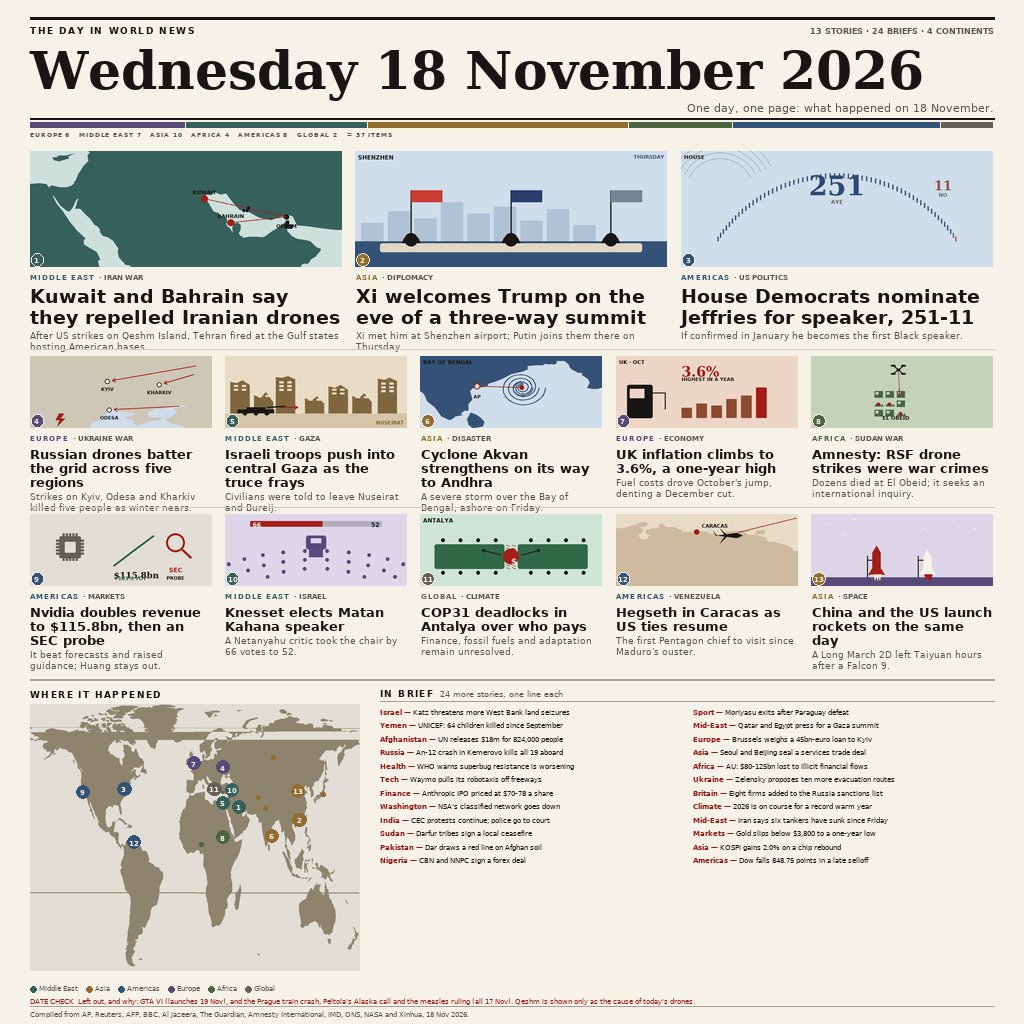
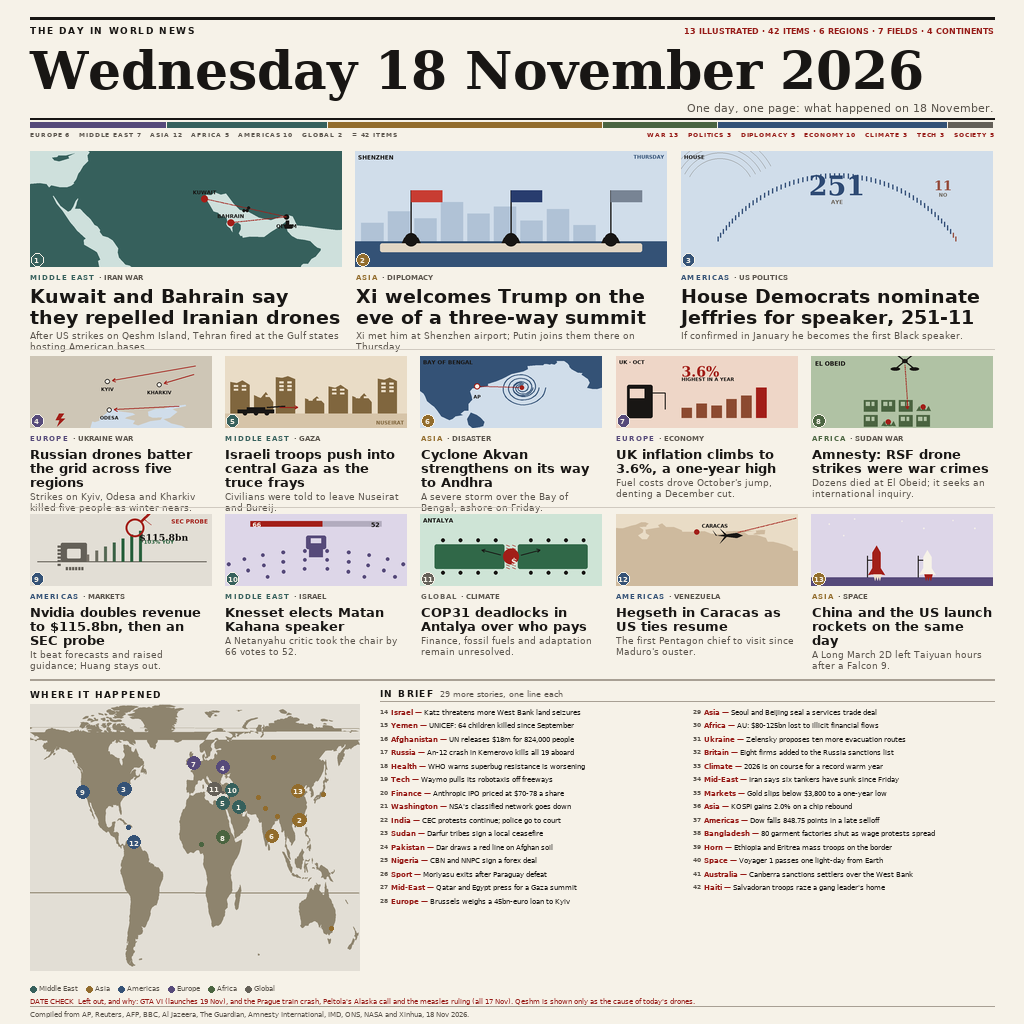
Carry one numbering spine through 42 items, and index them twice
The briefs now continue the cards' numbers, 14 to 42, so the locator's
dots and the page's items are one set rather than two lists. Five more
verified stories of the day join them: Bangladesh's garment strike, the
Ethiopian-Eritrean troop build-up, Voyager 1 passing a light-day, the
Australian settler sanctions and the raid in Haiti.

The masthead indexes the same 42 items twice, by region and by field, and
both totals are derived from the content, so neither can drift. Sudan's
plate is now a close view of El Obeid with the caption clear of the roofs,
and Nvidia's is one mechanism: a chip whose pins climb into the revenue
bars, with the regulator's lens on the peak.

diff --git a/tools/cards.py b/tools/cards.py
@@ -231,76 +231,94 @@ def inflation(w, h):
 
 # 8 ------------------------------------------------ Sudan: drones on a city --
 def sudan(w, h):
+    """A drone over El Obeid: the town in close, one strike already landed."""
     im, d = new_plate(w, h, "sage")
-    win = (26.0, 35.0, 9.0, 18.0)
-    world_map(im, d, (0, 0, w, h), "sage", win=win, min_area=1.0,
-              fill=(196, 210, 186))
+    # a tight window on North Kordofan, so the land fills the plate
+    win = (27.6, 33.4, 11.2, 15.6)
+    world_map(im, d, (0, 0, w, h), "sage", win=win, min_area=0.4,
+              fill=(176, 194, 164))
     ex, ey = geo.project_win(30.2, 13.2, (0, 0, w, h), win)
-    bw = max(6.0, w * 0.045)
-    # the town, one roof missing where a strike landed
-    hit = {(0, 1), (1, 1), (2, 2)}
-    for i in range(9):
-        c, r = i % 3, i // 3
-        bx = ex - bw * 2.6 + c * bw * 1.35
-        by = ey - bw * 0.4 + r * bw * 1.15
-        if (c, r) in hit:
-            continue
-        rect(d, bx, by, bw, bw * 0.78, fill=DEEP["sage"])
-        rect(d, bx + 1, by + 1, bw * 0.34, bw * 0.3, fill=(196, 210, 186))
-    # rubble and fire where the roofs were
-    for c, r in hit:
-        bx = ex - bw * 2.6 + c * bw * 1.35
-        by = ey - bw * 0.4 + r * bw * 1.15
-        for k in range(4):
-            poly(d, [(bx + k * bw * 0.26, by + bw * 0.72),
-                     (bx + k * bw * 0.26 + bw * 0.18, by + bw * 0.40),
-                     (bx + k * bw * 0.26 + bw * 0.30, by + bw * 0.74)],
-                 fill=DEEP["sage"])
-        ellipse(d, bx + bw * 0.45, by + bw * 0.44, max(1.6, w * 0.009), fill=RED)
-    # a quadcopter: four arms in an X, rotor discs, a body
-    dx, dy = ex + bw * 0.3, ey - bw * 3.0
-    aw = max(4.0, w * 0.028)
+    bw = max(9.0, w * 0.075)
+    # the town, a dense block of roofs, three of them knocked out
+    hit = {(1, 1), (2, 2), (3, 0)}
+    for r in range(3):
+        for c in range(4):
+            bx = ex - bw * 2.1 + c * bw * 1.28
+            by = ey + bw * 0.35 + r * bw * 1.10
+            if (c, r) in hit:
+                for k in range(3):
+                    poly(d, [(bx + k * bw * 0.34, by + bw * 0.80),
+                             (bx + k * bw * 0.34 + bw * 0.22, by + bw * 0.44),
+                             (bx + k * bw * 0.34 + bw * 0.38, by + bw * 0.82)],
+                         fill=DEEP["sage"])
+                ellipse(d, bx + bw * 0.5, by + bw * 0.5, max(2.4, w * 0.014),
+                        fill=RED)
+                continue
+            rect(d, bx, by, bw, bw * 0.84, fill=DEEP["sage"])
+            rect(d, bx + bw * 0.14, by + bw * 0.14, bw * 0.30, bw * 0.28,
+                 fill=(176, 194, 164))
+            rect(d, bx + bw * 0.56, by + bw * 0.14, bw * 0.20, bw * 0.28,
+                 fill=(176, 194, 164))
+    # the drone overhead, large enough to read at thumbnail size
+    dx, dy = ex + bw * 0.9, ey - bw * 2.5
+    aw = max(7.0, w * 0.052)
     for ax, ay in ((-1, -1), (1, -1), (-1, 1), (1, 1)):
-        line(d, [(dx, dy), (dx + ax * aw, dy + ay * aw * 0.8)], INK, 1.0)
-        ellipse(d, dx + ax * aw, dy + ay * aw * 0.8, aw * 0.52, aw * 0.16,
+        line(d, [(dx, dy), (dx + ax * aw, dy + ay * aw * 0.82)], INK, 1.4)
+        ellipse(d, dx + ax * aw, dy + ay * aw * 0.82, aw * 0.50, aw * 0.17,
                 fill=INK)
-    ellipse(d, dx, dy, aw * 0.34, aw * 0.24, fill=INK)
-    # its descent vector, arrowhead landing on the struck block
-    tx, ty = ex + bw * 0.45, ey + bw * 0.34
-    line(d, [(dx, dy + aw * 0.3), (tx, ty - 4)], RED, 0.9, dash=(2.4, 2.2))
-    arrow(d, (tx - 0.5, ty - 8), (tx, ty - 1.5), RED, 0.9, 2.6)
-    label(d, (ex, ey + bw * 2.5), "EL OBEID", 5.4, INK, w, h, "sansb", "ma")
+    ellipse(d, dx, dy, aw * 0.30, aw * 0.22, fill=INK)
+    # its descent, onto the block it struck
+    tx, ty = ex + bw * 1.1, ey + bw * 1.1
+    line(d, [(dx, dy + aw * 0.4), (tx, ty - 5)], RED, 1.1, dash=(3.0, 2.6))
+    arrow(d, (tx - 0.6, ty - 10), (tx, ty - 1.5), RED, 1.1, 3.2)
+    # the caption in the corner the town leaves free, like every other plate
+    label(d, (4, 4), "EL OBEID", 6.0, INK, w, h, "sansb", "la")
     return done(im, w, h)
 
 
 # 9 ------------------------------------------------- Nvidia: a doubling, then --
 def nvidia(w, h):
+    """One chip whose right-hand pins become the revenue bars, on one ground."""
     im, d = new_plate(w, h, "stone")
-    # chip die with pins
-    cx, cy = w * 0.22, h * 0.46
-    s_ = min(w, h) * 0.15
-    for i in range(5):
-        off = -s_ * 0.6 + i * s_ * 0.3
+    cx, cy = w * 0.24, h * 0.58
+    s_ = min(w, h) * 0.18
+    base = cy + s_ * 0.46
+    # the ground line: chip, pins and bars all stand on it
+    line(d, [(w * 0.04, base), (w * 0.97, base)], DEEP["stone"], 1.2)
+    for i in range(6):
+        off = -s_ * 0.7 + i * s_ * 0.28
         rect(d, cx - s_ - 3, cy + off - 1, 3, 2, fill=DEEP["stone"])
-        rect(d, cx + s_, cy + off - 1, 3, 2, fill=DEEP["stone"])
-        rect(d, cx + off - 1, cy - s_ - 3, 2, 3, fill=DEEP["stone"])
-        rect(d, cx + off - 1, cy + s_, 2, 3, fill=DEEP["stone"])
-    rect(d, cx - s_, cy - s_, s_ * 2, s_ * 2, fill=DEEP["stone"], r=1.5)
-    rect(d, cx - s_ * 0.5, cy - s_ * 0.5, s_, s_, fill=PLATE["stone"], r=1)
-    # the doubling
-    pts = [(w * 0.46 + i / 4.0 * w * 0.22,
-            h * 0.72 - i / 4.0 * h * 0.42) for i in range(5)]
-    line(d, pts, (40, 96, 60), 2.2)
-    text(d, (w * 0.46, h * 0.78), "$115.8bn", 8.6, INK, "serifb", "la")
-    text(d, (w * 0.46, h * 0.855), "+103% YOY", 5.2, (40, 96, 60), "sansb", "la")
-    # then the probe: a magnifier over a red band on the right
-    gx, gy = w * 0.80, h * 0.40
+        rect(d, cx - s_ * 0.6 + i * s_ * 0.24, cy + s_ * 0.88, 2, 3,
+             fill=DEEP["stone"])
+    rect(d, cx - s_, cy - s_, s_ * 2, s_ * 1.44, fill=DEEP["stone"], r=1.5)
+    rect(d, cx - s_ * 0.52, cy - s_ * 0.54, s_ * 1.04, s_ * 0.74,
+         fill=PLATE["stone"], r=1)
+    # seven pins leave the right edge and grow into bars: grey at the chip,
+    # green at the peak, so the morph reads as growth rather than two diagrams
+    n = 7
+    x0, x1 = cx + s_, w * 0.60
+    for i in range(n):
+        t = i / (n - 1.0)
+        bx = x0 + (x1 - x0) * t
+        bh = h * (0.10 + 0.055 * i)
+        mix = min(1.0, max(0.0, (t - 0.10) / 0.55))
+        col = (int(120 + (40 - 120) * mix), int(114 + (96 - 114) * mix),
+               int(104 + (60 - 104) * mix))
+        rect(d, bx, base - bh, max(2.6, w * 0.013), bh, fill=col)
+    text(d, (w * 0.60, h * 0.25), "$115.8bn", 9.4, INK, "serifb", "la")
+    text(d, (w * 0.60, h * 0.345), "+103% YOY", 5.4, (40, 96, 60), "sansb", "la")
+    # the lens examines the peak, and its label is tied to it
+    gx, gy = x1 - (x1 - x0) * 0.08, base - h * 0.47
     r = min(w, h) * 0.13
-    ellipse(d, gx, gy, r, r, outline=RED, width=2.0)
-    line(d, [(gx + r * 0.72, gy + r * 0.72),
-             (gx + r * 1.65, gy + r * 1.65)], RED, 2.4)
-    label(d, (gx, gy + r * 2.5), "SEC", 6.4, RED, w, h, "sansb", "ma")
-    label(d, (gx, gy + r * 2.5 + 9), "PROBE", 4.8, INK, w, h, "sansb", "ma")
+    ellipse(d, gx, gy, r, r, outline=RED, width=2.2)
+    line(d, [(gx + r * 0.72, gy - r * 0.72),
+             (gx + r * 1.60, gy - r * 1.60)], RED, 2.6)
+    # the label, kept on the plate and joined to the lens by a leader
+    lx = min(gx + r * 1.85, w - 6)
+    ly = max(gy - r * 1.55, 6)
+    line(d, [(gx + r * 0.95, gy - r * 0.95), (lx - 1, ly + 5)], RED, 0.8,
+         dash=(2.0, 2.0))
+    label(d, (w - 4, 4), "SEC PROBE", 5.8, RED, w, h, "sansb", "ra")
     return done(im, w, h)
 
 

diff --git a/tools/layout2.py b/tools/layout2.py
@@ -73,6 +73,19 @@ STORIES = [
      cards.space, 112.6, 37.8),
 ]
 
+# brief key -> the subject it belongs to, for the by-field index
+BRIEF_FIELD = {
+    "Israel": "War", "Yemen": "War", "Afghanistan": "War", "Sudan": "War",
+    "Mid-East": "War", "Ukraine": "War", "Pakistan": "Diplomacy",
+    "Europe": "Diplomacy", "Asia": "Economy", "Washington": "Politics",
+    "Britain": "Diplomacy", "India": "Politics", "Russia": "War",
+    "Health": "Society", "Tech": "Tech", "Finance": "Economy",
+    "Nigeria": "Economy", "Sport": "Society", "Africa": "Economy",
+    "Climate": "Climate", "Markets": "Economy", "Americas": "Economy",
+    "Bangladesh": "Economy", "Horn": "War", "Space": "Tech",
+    "Australia": "Diplomacy", "Haiti": "War",
+}
+
 BRIEFS = [
     ("Israel", "Katz threatens more West Bank land seizures", 35.2, 31.9),
     ("Yemen", "UNICEF: 64 children killed since September", 44.2, 15.4),
@@ -98,6 +111,11 @@ BRIEFS = [
     ("Markets", "Gold slips below $3,800 to a one-year low", -74.0, 40.7),
     ("Asia", "KOSPI gains 2.0% on a chip rebound", 127.0, 37.6),
     ("Americas", "Dow falls 848.75 points in a late selloff", -74.0, 40.7),
+    ("Bangladesh", "80 garment factories shut as wage protests spread", 90.4, 24.0),
+    ("Horn", "Ethiopia and Eritrea mass troops on the border", 39.5, 14.6),
+    ("Space", "Voyager 1 passes one light-day from Earth", -118.2, 34.1),
+    ("Australia", "Canberra sanctions settlers over the West Bank", 149.1, -35.3),
+    ("Haiti", "Salvadoran troops raze a gang leader's home", -72.3, 18.5),
 ]
 
 REGION_HUE = {
@@ -119,6 +137,8 @@ BRIEF_REGION = {
     "Sudan": "Africa", "Nigeria": "Africa", "Africa": "Africa",
     "Tech": "Americas", "Finance": "Americas", "Washington": "Americas",
     "Markets": "Americas", "Americas": "Americas",
+    "Bangladesh": "Asia", "Space": "Americas", "Australia": "Asia",
+    "Horn": "Africa", "Haiti": "Americas",
     "Climate": "Global",
 }
 
@@ -140,6 +160,40 @@ def continents():
     seen = {CONTINENT[s[0]] for s in STORIES} - {None}
     assert seen <= names, "unknown continent: %r" % (seen - names)
     return len(seen)
+
+
+def fields():
+    """The page's second index: every item counted by subject, not by place.
+
+    Derived from the beats on the cards and from a subject tag on the briefs, so
+    the two indexes always agree on the total.
+    """
+    n = {}
+    for s in STORIES:
+        b = s[1].lower()
+        if "iran" in b or "ukraine" in b or "gaza" in b:
+            f = "War"
+        elif "diplomacy" in b or "summit" in b:
+            f = "Diplomacy"
+        elif "politics" in b:
+            f = "Politics"
+        elif "economy" in b or "markets" in b or "finance" in b:
+            f = "Economy"
+        elif "disaster" in b or "climate" in b:
+            f = "Climate"
+        elif "space" in b or "tech" in b:
+            f = "Tech"
+        else:
+            f = "Society"
+        n[f] = n.get(f, 0) + 1
+    for k, _t, _lon, _lat in BRIEFS:
+        f = BRIEF_FIELD.get(k, "Society")
+        n[f] = n.get(f, 0) + 1
+    assert sum(n.values()) == len(STORIES) + len(BRIEFS), \
+        "field index %d != %d" % (sum(n.values()), len(STORIES) + len(BRIEFS))
+    order = ["War", "Politics", "Diplomacy", "Economy", "Climate", "Tech",
+             "Society"]
+    return [(f, n[f]) for f in order if n[f]]
 
 
 def census():
@@ -219,11 +273,15 @@ def masthead(pg):
     d = pg.d
     d.line([(M, 18), (W - M, 18)], fill=INK, width=3)
     tracked(d, M, 25, "THE DAY IN WORLD NEWS", bold(9), INK, 1.6)
+    # the flag line, and the inventory beside it: every figure derived from the
+    # content below, so the page cannot misstate its own contents
     ncon = continents()
+    nreg = len(census())
+    nfld = len(fields())
     d.text((W - M, 26),
-           "%d STORIES · %d BRIEFS · %d CONTINENTS"
-           % (len(STORIES), len(BRIEFS), ncon),
-           font=bold(8), fill=GREY, anchor="ra")
+           "%d ILLUSTRATED · %d ITEMS · %d REGIONS · %d FIELDS · %d CONTINENTS"
+           % (len(STORIES), len(STORIES) + len(BRIEFS), nreg, nfld, ncon),
+           font=bold(8), fill=RED, anchor="ra")
     d.text((M, 40), "Wednesday 18 November 2026", font=serif(52), fill=INK)
     d.text((W - M, 101), "One day, one page: what happened on 18 November.",
            font=reg(11), fill=GREY, anchor="ra")
@@ -244,6 +302,13 @@ def masthead(pg):
     # numbering systems on this page cannot be confused for one another
     parts = "   ".join("%s %d" % (k.upper(), c) for k, c in cen)
     tracked(d, M, 131, parts + "   = %d ITEMS" % total, bold(6.2), GREY, 0.9)
+    # the same items again, indexed by subject: a second axis over one set, so
+    # the page can be read by place or by kind
+    fidx = fields()
+    fparts = "   ".join("%s %d" % (f.upper(), c) for f, c in fidx)
+    assert sum(c for _f, c in fidx) == total
+    tracked(d, W - M - tracked_w(d, fparts, bold(6.2), 0.9), 131,
+            fparts, bold(6.2), RED, 0.9)
     return 141
 
 
@@ -354,11 +419,17 @@ def briefs(pg, x, y, w, cols=2):
     for i, (k, s, lon, lat) in enumerate(BRIEFS):
         c, r = i // per, i % per
         cx, cy = x + c * (cw + 12), y + r * rh
-        d.text((cx, cy), k + " — ", font=bold(7.2), fill=RED)
+        # one numbering spine: the briefs carry on where the cards stopped, so
+        # the map's dots and the page's items are the same set of numbers
+        num = "%d" % (len(STORIES) + i + 1)
+        d.text((cx, cy), num, font=bold(6.4), fill=GREY)
+        nw = tw(d, num, bold(6.4)) + 3.2
+        d.text((cx + nw, cy), k + " — ", font=bold(7.2), fill=RED)
         kw = tw(d, k + " — ", bold(7.2))
-        lines = wrap(d, s, reg(7.2), cw - kw)
+        avail = cw - kw - nw
+        lines = wrap(d, s, reg(7.2), avail)
         for j, ln in enumerate(lines[:2]):
-            d.text((cx + kw, cy + j * 8.6), ln, font=reg(7.2), fill=INK)
+            d.text((cx + nw + kw, cy + j * 8.6), ln, font=reg(7.2), fill=INK)
     pg.mark(y + rh * (per - 1) + 9)
 
 

diff --git a/README.md b/README.md
@@ -12,7 +12,7 @@ Bounty page: <https://make.fun/bounty/news-image-20261118>
 
 An illustrated front page: a masthead naming the day, thirteen stories each with
 a purpose-drawn vector illustration, a locator map of where they happened, and 24
-one-line briefs. Thirty-seven stories across four continents.
+one-line briefs. Forty-two items across four continents.
 
 Reading order is deliberate:
 
@@ -27,8 +27,11 @@ Reading order is deliberate:
   El Obeid strikes, Nvidia, the Knesset speaker vote, COP31 in Antalya, Hegseth in
   Caracas, and the Long March 2D launch.
 - **Locator map**: all thirteen pinned and numbered, coloured by region, so the
-  day's geography is legible at a glance.
-- **24 briefs** in two columns, from Yemen's children to the Dow's late selloff.
+  day's geography is legible at a glance, with the briefs as small dots.
+- **Two indexes over one set**: the masthead counts the 42 items by region and
+  again by field, and both totals are derived from the content.
+- **29 briefs** in two columns, numbered on from the cards, from the West Bank
+  to the Dow's late selloff.
 
 Every item is a real event of 18 November 2026, as reported by AP, Reuters, AFP,
 Xinhua, UNICEF, UN News, Amnesty International, the ONS and others. No event is
@@ -68,7 +71,7 @@ mkdir -p out && MAKEFUN_OUTPUT_DIR=out python3 main.py
 ```
 
 The page is copied as bytes rather than re-encoded, so both graded runs write
-identical output: a 1024×1024 PNG of about 244 KB, well inside the 1 MiB cap.
+identical output: a 1024×1024 PNG of about 256 KB, well inside the 1 MiB cap.
 
 ## Layout of this repository
 
@@ -91,7 +94,7 @@ cd tools && python3 layout2.py   # writes /tmp/page.png
 
 - Two consecutive runs produce byte-identical output — the program copies bytes and
   re-encodes nothing.
-- The PNG is 1024×1024 and 249,517 bytes — under the 1 MiB limit.
+- The PNG is 1024×1024 and 261,615 bytes — under the 1 MiB limit.
 - All PNG chunk CRCs verify and the stream ends at its IEND marker.
 - No text is clipped, overlapping or below the legibility floor: card text blocks
   are measured against the row below, the page bottom is asserted, and every
